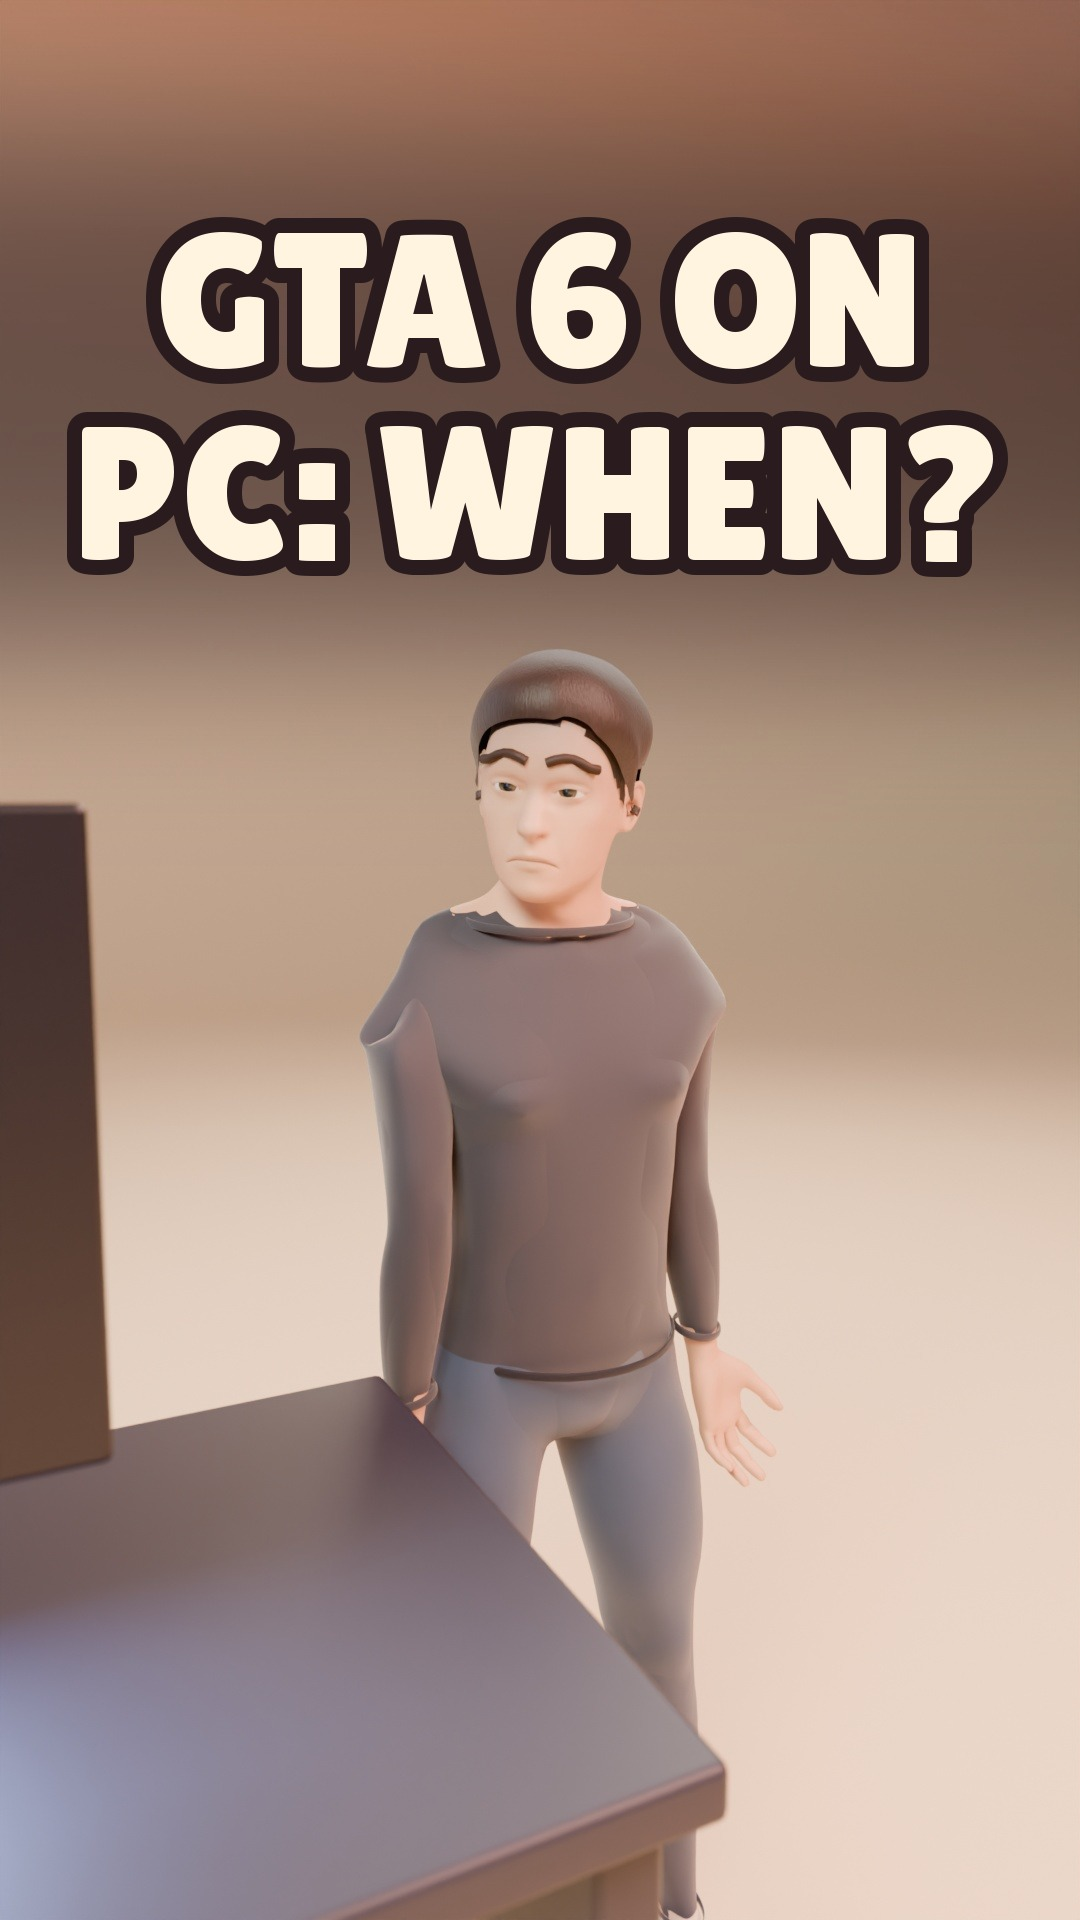
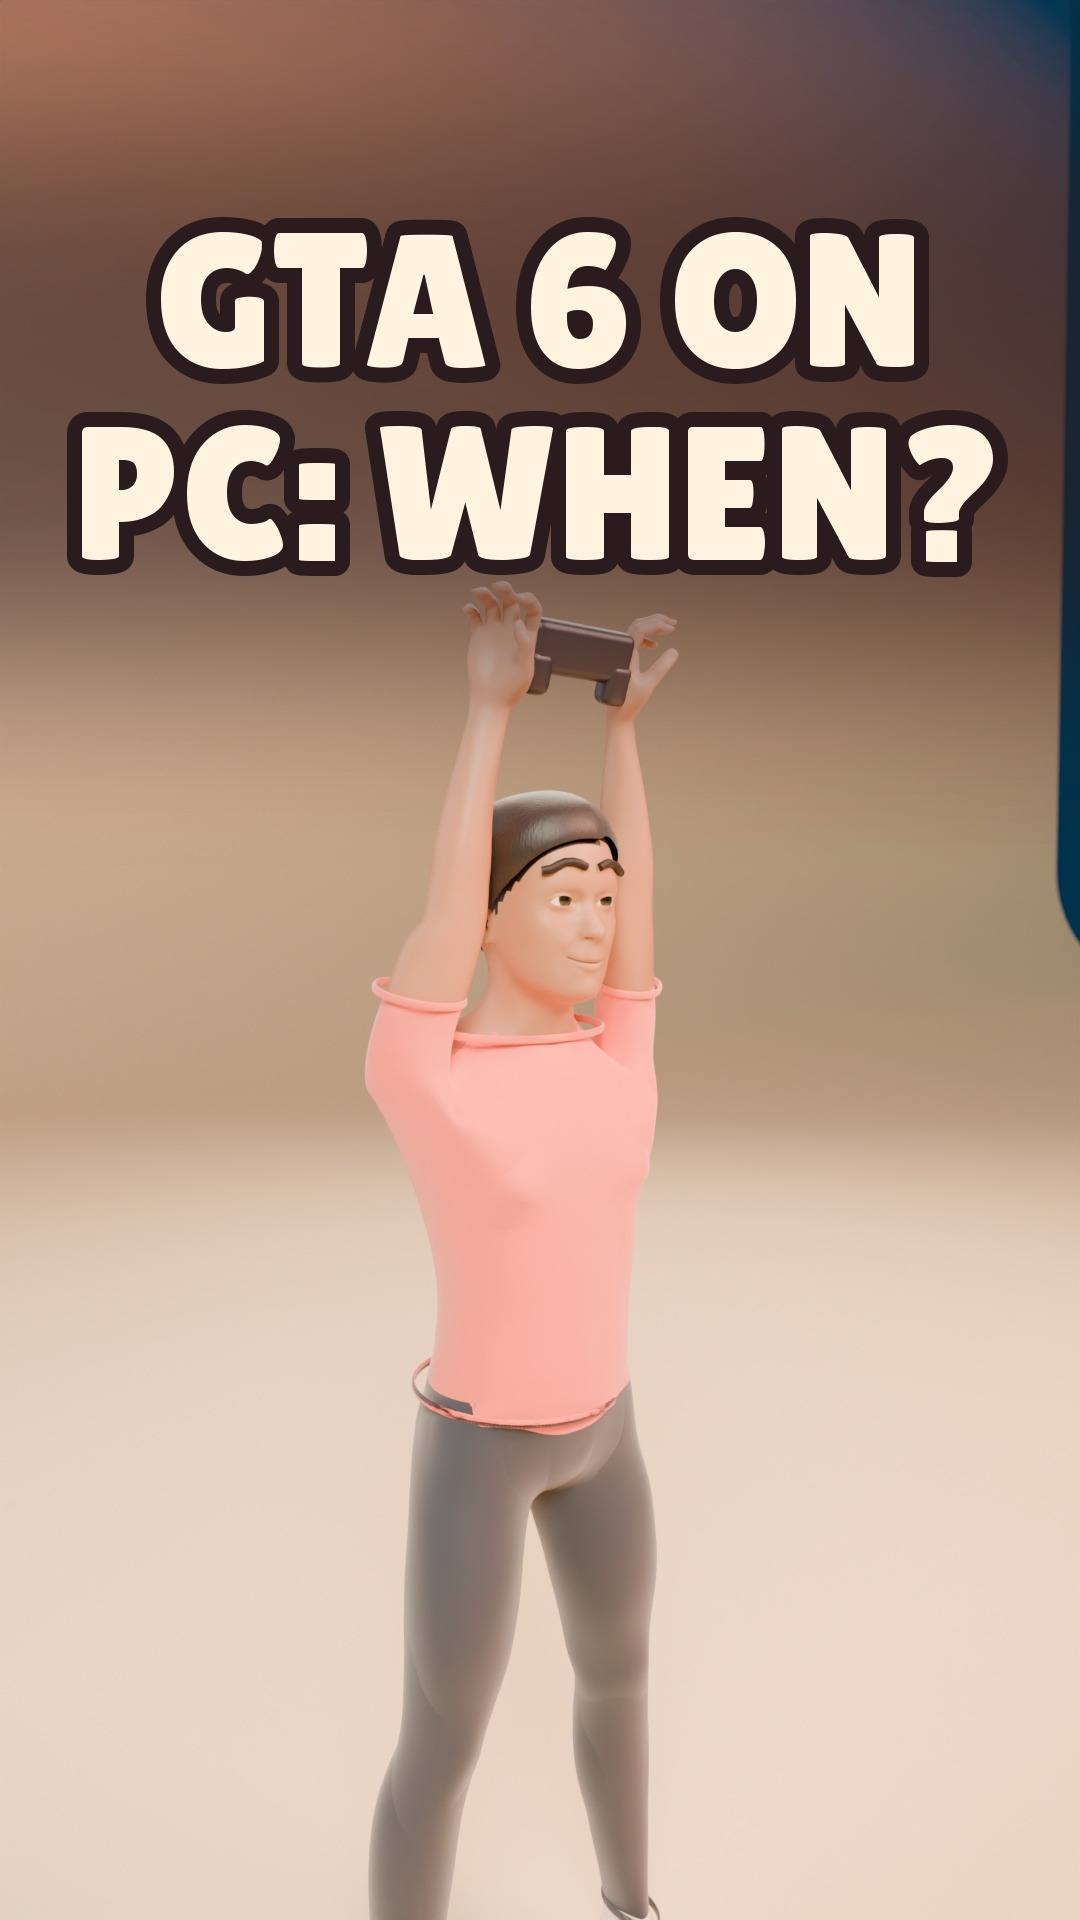
A-021 QA pass, uploaded for 22 Nov 16:00 UTC; A-016 moved to 6 Dec
Claude-Session: https://claude.ai/code/session_01BQj2Dd62mCxqrytuRaL8gE

diff --git a/episodes/A-021-gta6-pc/qa.md b/episodes/A-021-gta6-pc/qa.md
@@ -1,11 +1,17 @@
-# A-021 QA — 22 Nov 2026 04:10 UTC — **FAIL (not uploaded)**
-Kaggle a021 v1 COMPLETE (109 min wall, 2×T4 ≈ 3.65 GPU h, 1174 frames). final/A-021.mp4 39.1 s, 1080×1920, −14.8 LUFS. Script, voice, facts, captions OK.
-Fails the professional gate (contact sheet + 3 full-size frames):
-- [ ] pc_nothing close-up: shirt clips — neck skin shows through gaps at the collar, eyebrows sit outside the hair cap, the near arm folds through the chest.
-- [ ] console_win: winner is barefoot; the controller hand bends back at the wrist and the pad reads like a pistol at the hip (bad look in a GTA video).
-- [ ] Ankle/wrist ring artefacts (clothing edge) on several people.
-- [ ] Wide shots (pedestals, report_2027, loop_q): people small in a big empty studio; report "screen" is a blank white card.
-Decision: quality first. A-016 stays in its slot (Sun 22 Nov 16:00 UTC) — NOT moved. A-021 is not uploaded.
-Fix list for v2 (if made): human outfit with shoes + no clipping (check sr_human clothes / delete-hidden-skin), no close-up of the face (mid shot),
-controller held in both hands at chest height, tighter framing (person ≥ 45 % of height), report screen shows a drawn "2027?" card.
-Re-render ≈ 3.7 GPU h. Possible slot: a free trending slot (Sun 6 Dec or Tue 8 Dec 16:00 UTC) if GTA 6 PC is still news.
+# A-021 QA
+
+## v1 — 22 Nov 04:10 UTC — FAIL (not uploaded)
+Shirt clipping in the face close-up, people looked barefoot, controller looked like a pistol, people small in big empty wide shots, blank calendar card.
+
+## v3 final — 22 Nov 06:50 UTC — PASS
+Renders: Kaggle a021 v1 (boss, shrug_pc), a021 v2 (pedestals_a/b, report_2027), a021b v1 (hook_pc, loop_q), a021b v2 (console_win, pc_nothing); all 64 spp + mblur, 1080×1920.
+- [x] Script researched, 2+ sources (sources.md); no unverified claim stated as fact ("NOT OFFICIAL" on the 2027 rumour)
+- [x] Voice clean (Gemini, voice/ch0.flac), captions in sync, −14.8 LUFS
+- [x] Frame 1: PC player 65 % of frame height (scene.py --measure), title hook on screen at 0 s
+- [x] Fixed: white sneakers, no face close-up, controller held in both hands (elbow poles behind for people facing +Y), arms down at the desk (no sleeve fold), tighter framing, calendar with day grid
+- [x] Last shot matches the first, so it loops; no full-screen end card
+- [x] Our own cast/props only; no game art, logos or real people; generic boss is not a likeness
+- [x] Ethics + religion check: clear
+- [x] Thumbnail: final/thumb_v2.jpg, cheering console player + "GTA 6 ON PC: WHEN?" (not the title word for word)
+- [x] AI disclosure: No — stylised CG characters in a plain studio, no realistic people/places/events (docs/ai_disclosure.md test)
+- Small known limits (same as A-016/A-018): thin skin line at some collars/shirt hems at full size.

diff --git a/STATUS.md b/STATUS.md
@@ -25,9 +25,9 @@ deleted (they had no repo; the 18/19 Nov runs did not happen). Plan: L4 Fri 27 N
    → compose → QA → upload (thumb via tools/short_thumb.py, ai_disclosure decided per docs/ai_disclosure.md: stylised CG, check).
 ** OWNER 21 Nov — NEW STANDING PLAN (CLAUDE.md): 5 videos/week = 1 long (Sat 15:00 UTC) + 4 Shorts (Sun/Tue/Wed/Thu 16:00 UTC; 1–2 cut from the long,
    rest TRENDING standalone). Keep 1 month scheduled, then stop. Never change already-scheduled videos after the A-016 move (last change).
-   CALENDAR: Sat 21 Nov 13:00 A-020 GTA6 F (owner time) · Sun 22 A-016 onions (kept: A-021 FAILED QA 22 Nov, see episodes/A-021-gta6-pc/qa.md) · Mon 23 A-017 · Tue 24 A-012 · Wed 25 A-011 · Thu 26 A-013 ·
+   CALENDAR: Sat 21 Nov 13:00 A-020 GTA6 F (owner time) · Sun 22 A-021 GTA6 R (UPLOADED sx0H9Hm0KxA, v3 QA pass) · Mon 23 A-017 · Tue 24 A-012 · Wed 25 A-011 · Thu 26 A-013 ·
    Fri 27 A-018 (all already scheduled, keep) · Sat 28 15:00 L4 · Sun 29 L4-C1 coins · Tue 1 Dec L4-C2 stop signs · Wed 2 Dec A-019 ambulance ·
-   Thu 3 Dec A-010 (scheduled) · Sat 5 Dec 15:00 L5 · Sun 6 Dec FREE (trending; A-021 v2 if fixed) · Tue 8/Wed 9/Thu 10 Dec: 1–2 L5 cut + trending ·
+   Thu 3 Dec A-010 (scheduled) · Sat 5 Dec 15:00 L5 · Sun 6 Dec A-016 onions (moved 22 Nov 06:5x, LAST change) · Tue 8/Wed 9/Thu 10 Dec: 1–2 L5 cut + trending ·
    then weekly to ~21 Dec (1 month). L4-C3 caps + L4-C4 manholes are made but NOT scheduled (spare; only 2 cut Shorts per long).
 ** OWNER 21 Nov: he changed A-020 (jIFcT7oUqlw) himself in Studio (time, title, tags etc.). DO NOT change or 'fix' anything on that video;
    upload_meta.json there is the old version — never re-apply it, and treat any verify.py difference for this video as owner-approved.

diff --git a/topic_results.md b/topic_results.md
@@ -41,3 +41,4 @@ Owner style A/B test, UPLOADED 16 Nov (rows appear once public): A-016 Why Onion
 Compare at 48 h and 7 d: views, stayed %, avg % viewed, rel. retention 10 %, subs, likes, comments → report to the owner.
 Scheduled 20 Nov: A-018 Why Is This English Wall So Wiggly? jN10Y403ZOA (standalone, 9 Science/engineering, R, Why …, Fri 27 Nov 16:00 UTC; teaser for L4 shapes series).
 Scheduled 21 Nov: A-020 Why We Waited 13 Years for GTA 6 jIFcT7oUqlw (standalone, gaming/trend test, F-v2.1, Why …, 21 Nov 16:00 UTC, owner request). A-010 (A/B A1) moved to 3 Dec 16:00 UTC by the owner.
+Scheduled 22 Nov: A-021 Why Can't You Play GTA 6 on PC Yet? sx0H9Hm0KxA (standalone, gaming/trend, Style R, Why …, 22 Nov 16:00 UTC, owner request). A-016 onions moved to 6 Dec 16:00 UTC (last allowed change).

diff --git a/docs/ai_disclosure.md b/docs/ai_disclosure.md
@@ -42,6 +42,7 @@ Unsure → **Yes** (disclosing never hurts reach or money; a missing disclosure 
 | S8zIxiPXHpE | A-017-cloudy-ice | Why Ice Cubes Are Cloudy | R | **No** |
 | jN10Y403ZOA | A-018-wavy-walls | Why Is This English Wall So Wiggly? | R | **No** |
 | jIFcT7oUqlw | A-020-gta6-wait | Why We Waited 13 Years for GTA 6 | F | **No** |
+| sx0H9Hm0KxA | A-021-gta6-pc | Why Can't You Play GTA 6 on PC Yet? | R | **No** |
 | 9C-9O0c6VqM | B-001-animal-trials | Why Medieval Courts Put Animals on Trial | T | **No** |
 | 5YqYpWmY7EA | B-001-animal-trials/C0 | Why a Pig Was Executed in a Man's Clothes | T | **No** |
 | 33UzHb61eKc | B-001-animal-trials/C1 | Why a French Town Put a Pig on Trial | T | **No** |

diff --git a/render_log.md b/render_log.md
@@ -99,3 +99,4 @@
 - 22 Nov ~04:4x UTC: a021 v2 pushed (QA fixes; shots pc_nothing, console_win, pedestals_a, pedestals_b, report_2027). Next: v3 hook_pc + loop_q (arms down, tighter camera).
 - 22 Nov 04:4x UTC: a021b v1 COMPLETE (24.6 min wall, 2×T4 ≈ 0.8 GPU h; hook_pc 97 + loop_q 151 frames) → renders.
 - 22 Nov 05:48 UTC: a021 v2 COMPLETE (80.3 min wall, 2×T4 ≈ 2.7 GPU h, 5 shots). 05:51 UTC a021b v2 pushed (console_win elbow poles + pc_nothing arms down, wider).
+- 22 Nov 06:44 UTC: a021b v2 COMPLETE (29.2 min wall, 2×T4 ≈ 1.0 GPU h; console_win + pc_nothing). A-021 total ≈ 8.2 GPU h (v1 3.65 + v2 2.7 + b1 0.8 + b2 1.0). QA PASS → uploaded sx0H9Hm0KxA.
